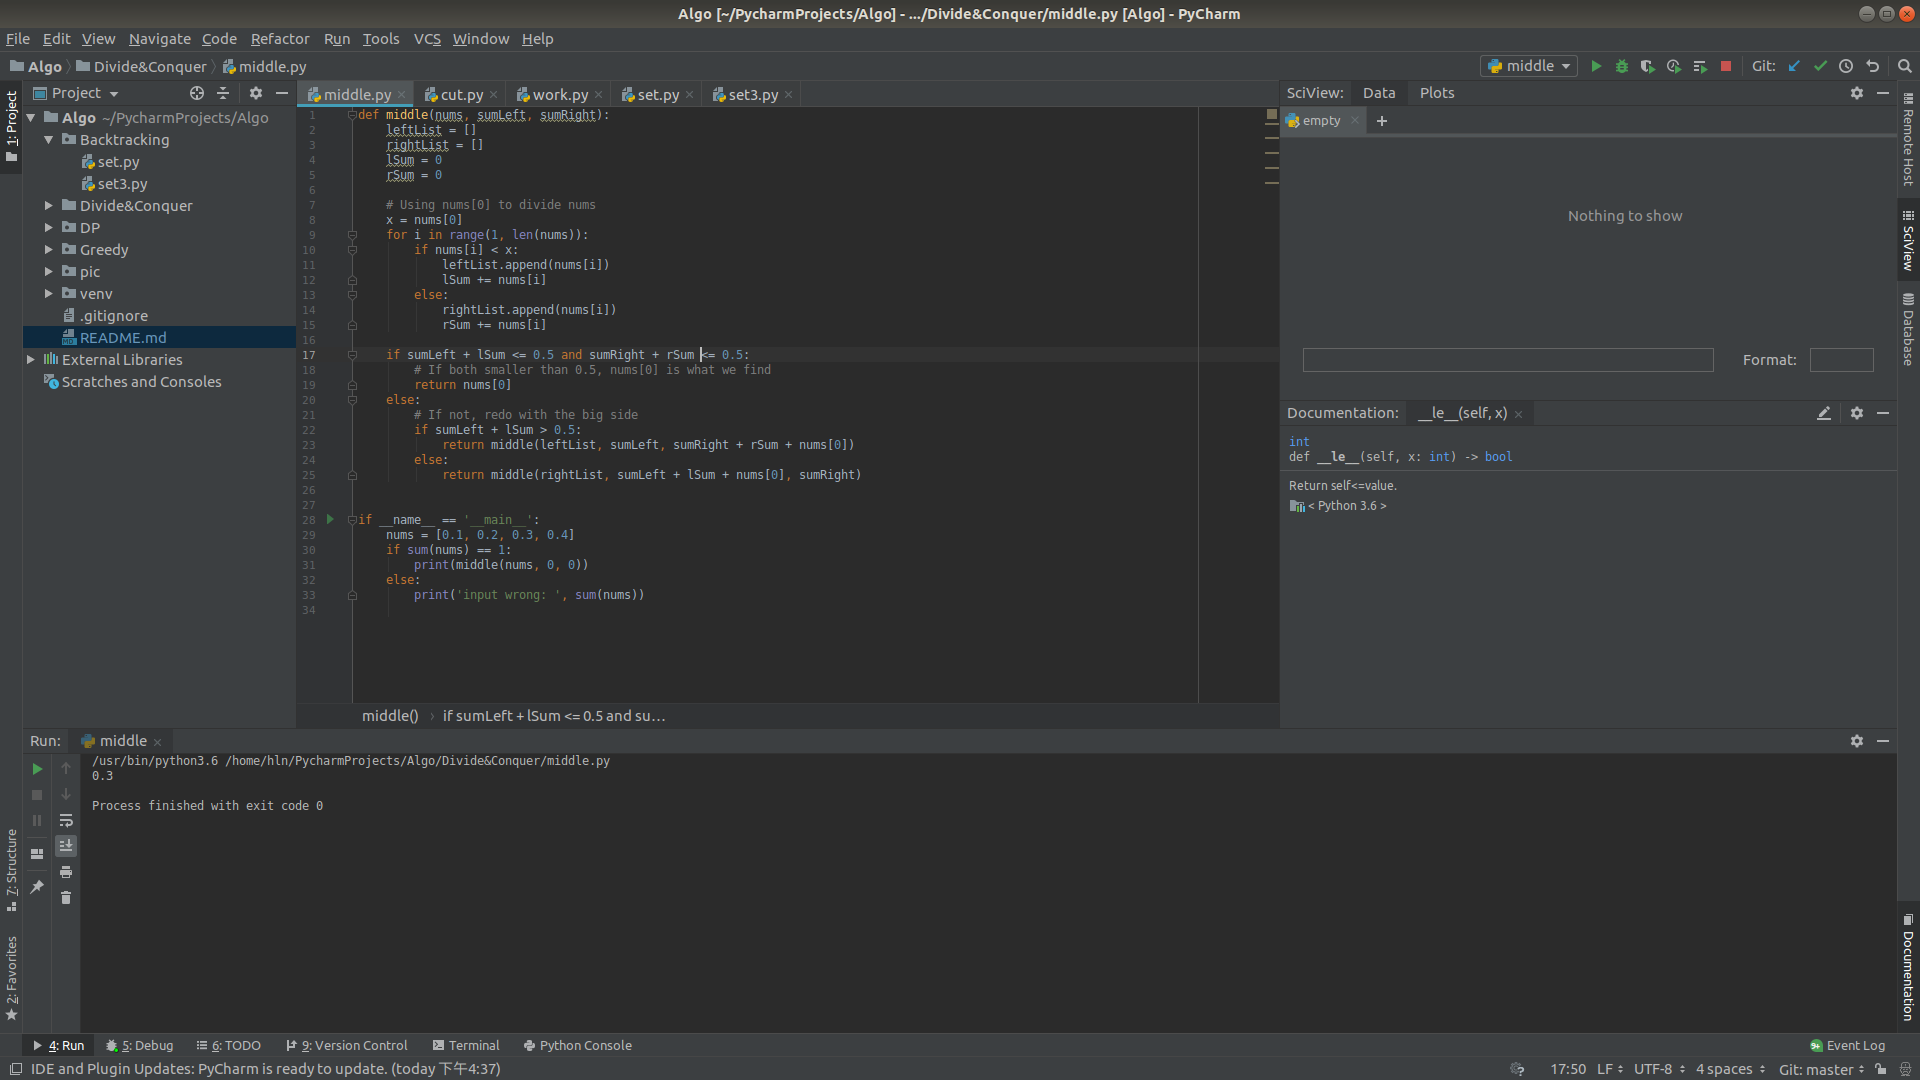
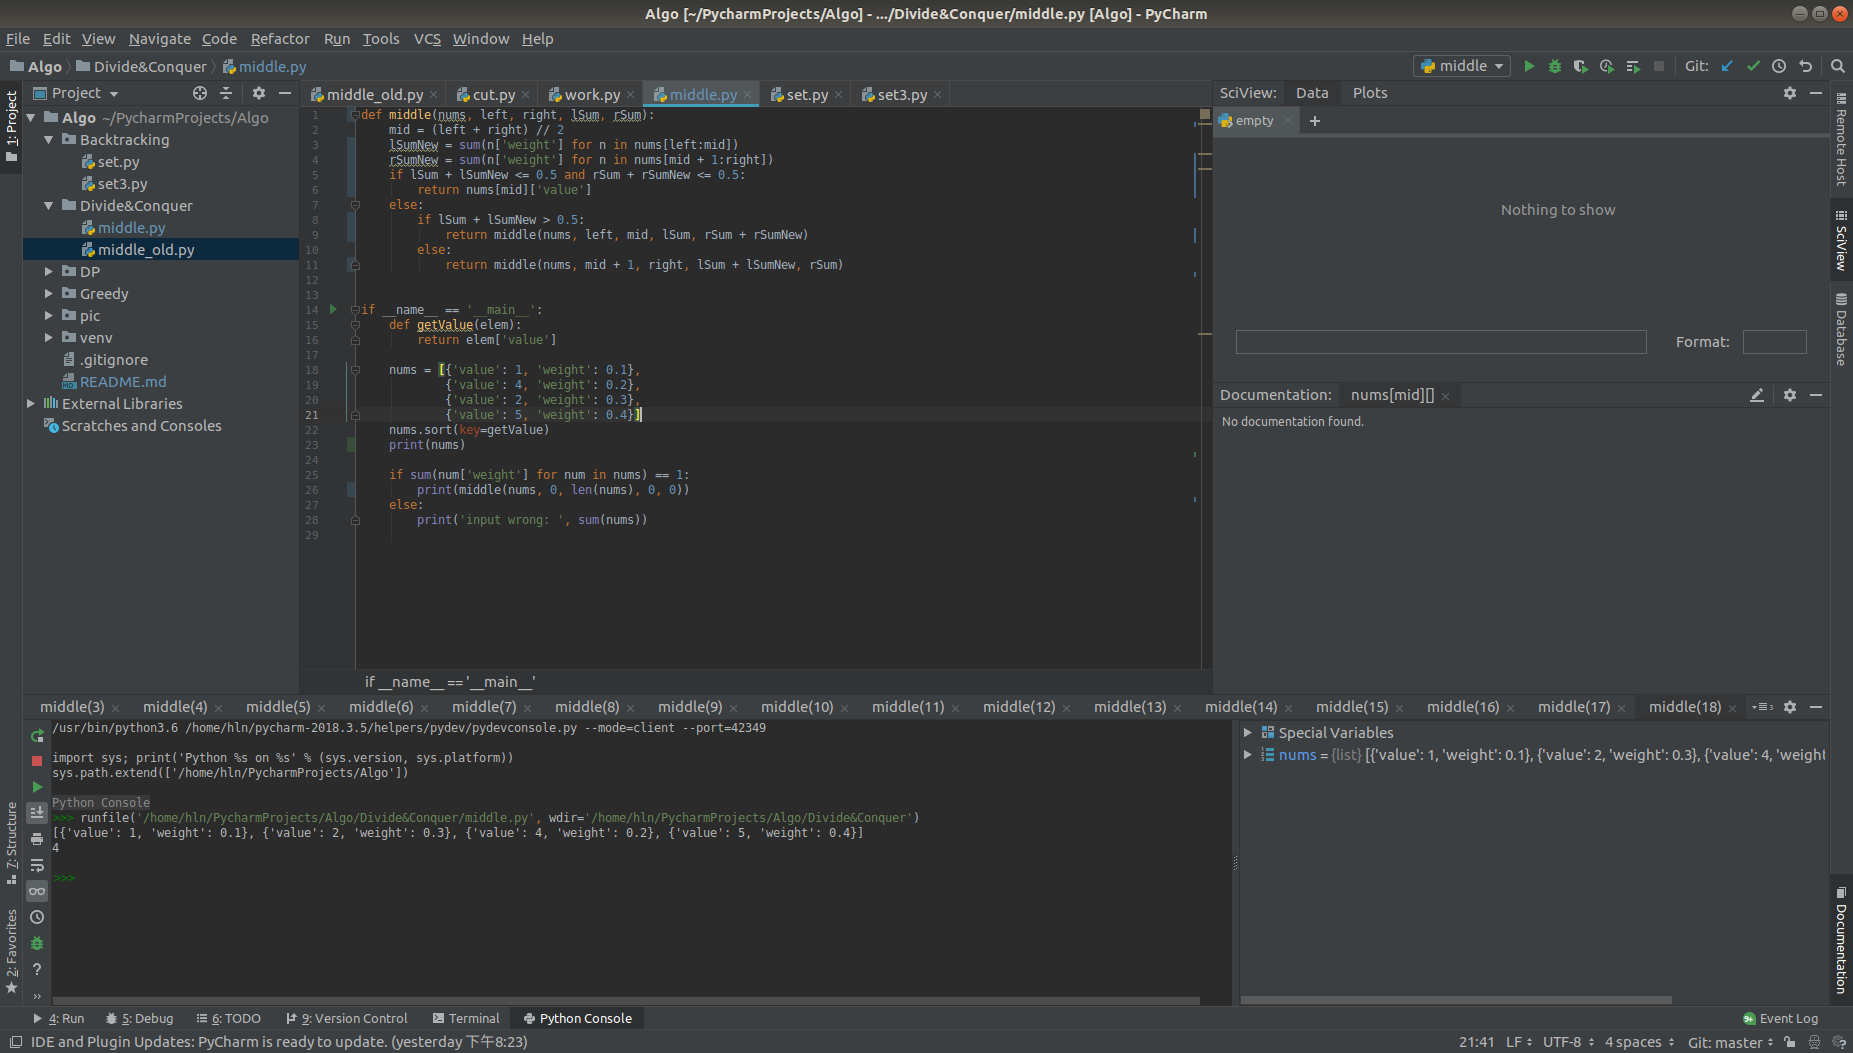
Update README.md

diff --git a/Divide&Conquer/middle.py b/Divide&Conquer/middle.py
@@ -1,12 +1,14 @@
-def middle(nums, left, right):
+def middle(nums, left, right, lSum, rSum):
     mid = (left + right) // 2
-    if sum(n['weight'] for n in nums[0:mid]) <= 0.5 and sum(n['weight'] for n in nums[mid + 1:len(nums)]) <= 0.5:
-        return mid
+    lSumNew = sum(n['weight'] for n in nums[left:mid])
+    rSumNew = sum(n['weight'] for n in nums[mid + 1:right])
+    if lSum + lSumNew <= 0.5 and rSum + rSumNew <= 0.5:
+        return nums[mid]['value']
     else:
-        if sum(num['weight'] for num in nums[0:mid]) > 0.5:
-            return middle(nums, left, mid)
+        if lSum + lSumNew > 0.5:
+            return middle(nums, left, mid, lSum, rSum + rSumNew)
         else:
-            return middle(nums, mid + 1, right)
+            return middle(nums, mid + 1, right, lSum + lSumNew, rSum)
 
 
 if __name__ == '__main__':
@@ -18,8 +20,9 @@ if __name__ == '__main__':
             {'value': 2, 'weight': 0.3},
             {'value': 5, 'weight': 0.4}]
     nums.sort(key=getValue)
+    print(nums)
 
     if sum(num['weight'] for num in nums) == 1:
-        print(middle(nums, 0, len(nums)))
+        print(middle(nums, 0, len(nums), 0, 0))
     else:
         print('input wrong: ', sum(nums))

diff --git a/README.md b/README.md
@@ -2,7 +2,9 @@
 
 
 
-## 分治与递归
+## 分治与递归_old
+
+**注：这个解法是我一开始的时候对题目理解有问题。求的是权重的求和中位数，而不是元素的带权中位数。但这里面所用到的线性时间选择也是分治里面很有意思的一种解题思路，所以保留了下来，相关的程序原文件加了`_old`后缀。**
 
 ### 问题描述
 
@@ -57,6 +59,93 @@ if __name__ == '__main__':
 ```
 
 ### 运行结果
+
+```python
+# Input:
+# nums = [0.1, 0.2, 0.3, 0.4]
+```
+
+输入：四个元素权值。
+
+```python
+# Output:
+# 0.3
+```
+
+输出：带权中位数的值为`0.3`。
+
+![./pic/middle_old.png](./pic/middle_old.png)
+
+
+
+## 分治与递归
+
+### 问题描述
+
+设有n个互不相同的元素`x1,x2,…,xn`，每个元素`xi`带有一个权值`wi`，且所有元素权值之和为`1`。若元素`xk`满足比`xk`小的所有元素权值之和小于等于`1/2`且比`xk`大的所有元素权值之和小于等于`1/2`，则称元素`xk`为`x1,x2,…,xn`的带权中位数。请编写一个算法，能够在最坏情况下用`O(n)`时间找出`n`个元素的带权中位数。
+
+### 问题分析
+
+题目要求在`O(n)`的时间内从n个元素中选择一个符合要求的元素，故可考虑使用线性时间选择算法。
+
+### 算法设计
+
+- 直接二分查找分界点就行了。
+- 二分查找`n`层时间复杂度为`O(logn)`，每一层遍历求和一遍时间复杂度`O(n)`，这样总的时间复杂度为`O(nlogn)`超过了题目的要求。为了解决这个问题，可以把每一层查找之后，左右两侧固定下来的区域的元素权值和传递给下一层，这样全部`O(logn)`就只需要做`n`次求和了，将时间复杂度控制在`O(n)`。
+- 另外程序中的排序不是必须的，仅为方便检查结构，对元素的值做了升序处理。
+
+### 算法实现
+
+```python
+def middle(nums, left, right, lSum, rSum):
+    mid = (left + right) // 2
+    lSumNew = sum(n['weight'] for n in nums[left:mid])
+    rSumNew = sum(n['weight'] for n in nums[mid + 1:right])
+    if lSum + lSumNew <= 0.5 and rSum + rSumNew <= 0.5:
+        return nums[mid]['value']
+    else:
+        if lSum + lSumNew > 0.5:
+            return middle(nums, left, mid, lSum, rSum + rSumNew)
+        else:
+            return middle(nums, mid + 1, right, lSum + lSumNew, rSum)
+
+
+if __name__ == '__main__':
+    def getValue(elem):
+        return elem['value']
+
+    nums = [{'value': 1, 'weight': 0.1},
+            {'value': 4, 'weight': 0.2},
+            {'value': 2, 'weight': 0.3},
+            {'value': 5, 'weight': 0.4}]
+    nums.sort(key=getValue)
+    print(nums)
+
+    if sum(num['weight'] for num in nums) == 1:
+        print(middle(nums, 0, len(nums), 0, 0))
+    else:
+        print('input wrong: ', sum(nums))
+
+```
+
+### 运行结果
+
+```python
+# Input:
+# nums = [{'value': 1, 'weight': 0.1},
+#         {'value': 4, 'weight': 0.2},
+#         {'value': 2, 'weight': 0.3},
+#         {'value': 5, 'weight': 0.4}]
+```
+
+输入：四个元素的元素值和元素权重对。
+
+```python
+# Output:
+# 4
+```
+
+输出：带权中位数的值为`4`。
 
 ![./pic/middle.png](./pic/middle.png)
 
@@ -281,7 +370,7 @@ if __name__ == '__main__':
 None
 ```
 
-输入：无
+输入：无，随机生产数据无需输入。
 
 ```python
 # Output:
@@ -295,6 +384,8 @@ None
 
 
 ## 选做题
+
+**注：这个题目是在之前面那个回溯法的基础上重构而来的，通过修改`self.setNum`改变集合数量。**
 
 ### 问题描述
 
@@ -375,5 +466,19 @@ if __name__ == '__main__':
 ```
 
 ### 运行结果
+
+```python
+# Input:
+None
+```
+
+输入：无，随机生产数据无需输入。
+
+```python
+# Output:
+# 3 [[6], [12], [15]]
+```
+
+输出：`A`, `B`和`C`集合列数和，以及`A`, `B`和`C`所分别含有的列。
 
 ![./pic/set3.png](./pic/set3.png)
